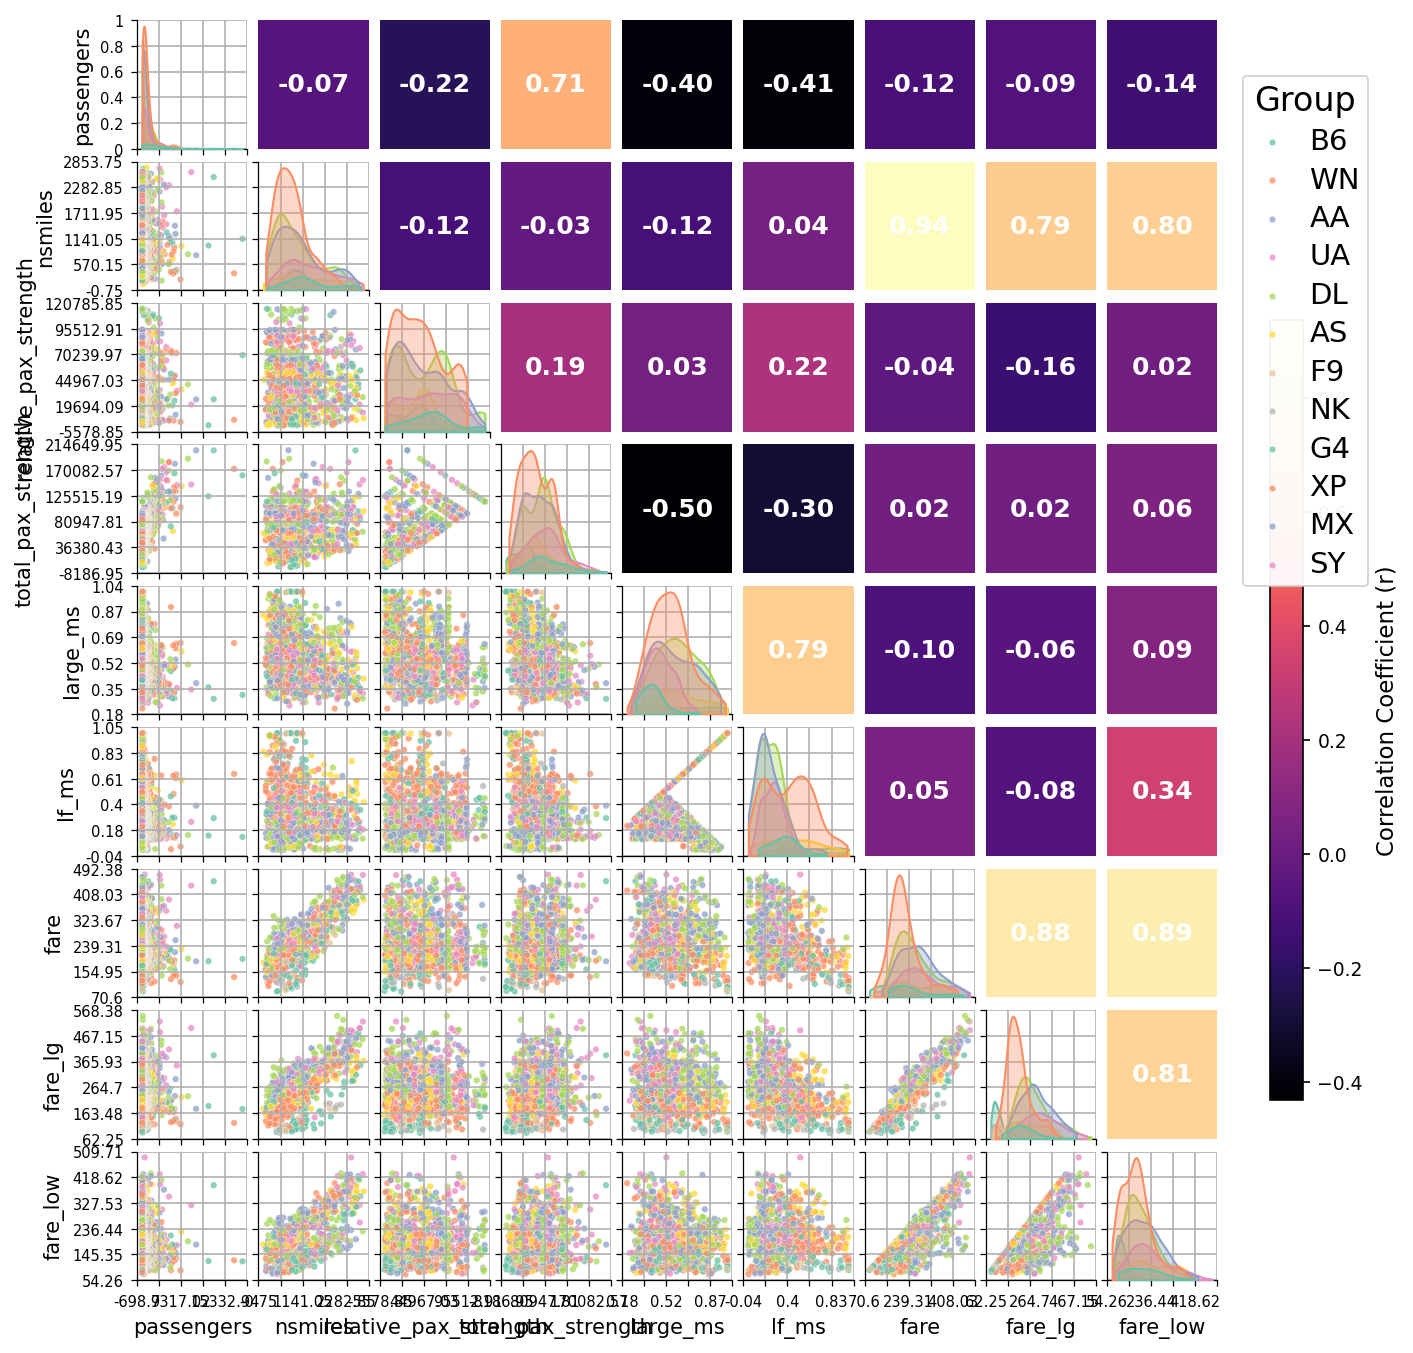
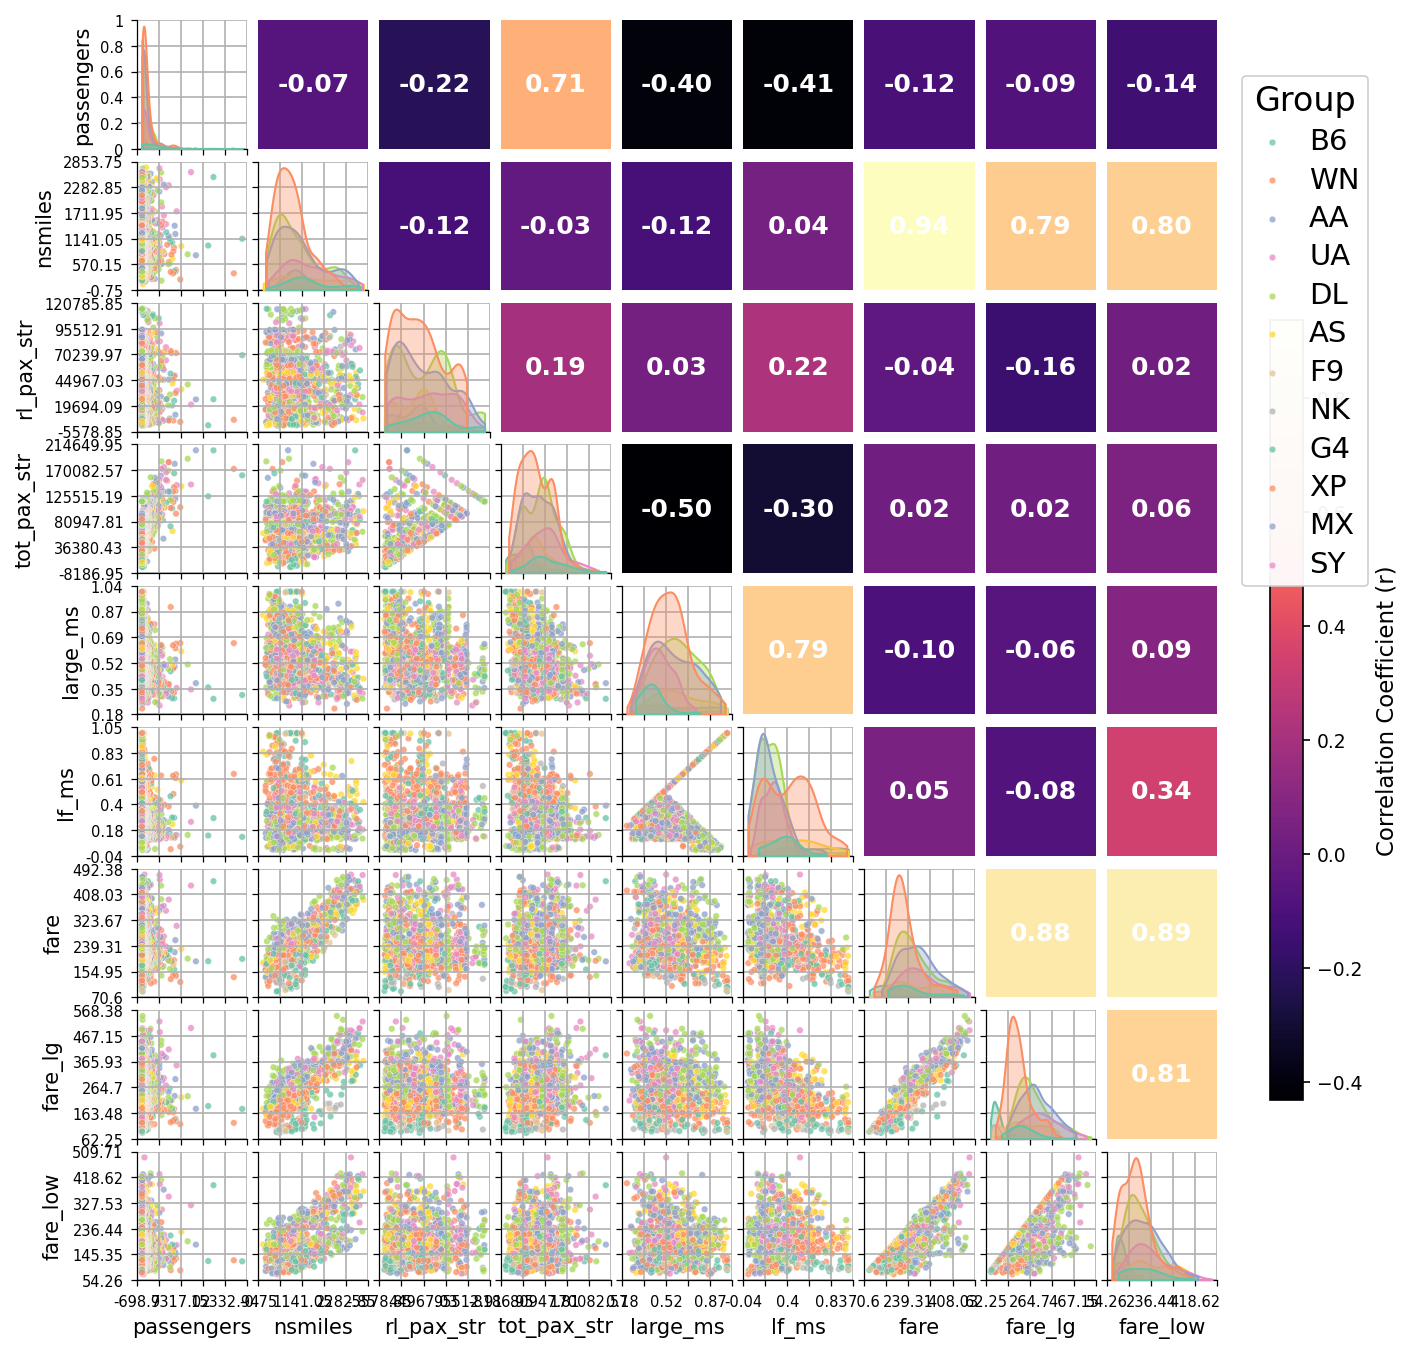
fix title issue

diff --git a/eda/quarter_visualize.py b/eda/quarter_visualize.py
@@ -8,11 +8,11 @@ if __name__ == "__main__":
     df["city2_pax_strength"] = df.groupby(['Year', 'quarter', 'citymarketid_2'])['passengers'].transform('sum')
     
     #calculate relative pax_strength
-    df["relative_pax_strength"] = abs(df["city1_pax_strength"] - df["city2_pax_strength"])
-    df["total_pax_strength"] = df["city1_pax_strength"] + df["city2_pax_strength"]
+    df["rl_pax_str"] = abs(df["city1_pax_strength"] - df["city2_pax_strength"])
+    df["tot_pax_str"] = df["city1_pax_strength"] + df["city2_pax_strength"]
     #merge year and quarter to single time index column
     df['time_index'] = df['Year'].astype(str) + ' Q' + df['quarter'].astype(str)
-    feature_names = ['passengers', 'nsmiles', 'relative_pax_strength', 'total_pax_strength', 'large_ms', 'lf_ms', 'fare', 'fare_lg', 'fare_low']
+    feature_names = ['passengers', 'nsmiles', 'rl_pax_str', 'tot_pax_str', 'large_ms', 'lf_ms', 'fare', 'fare_lg', 'fare_low']
     index_name = ['time_index']
     hue_names = ['carrier_lg']
     X = df[feature_names+hue_names + index_name].dropna()
